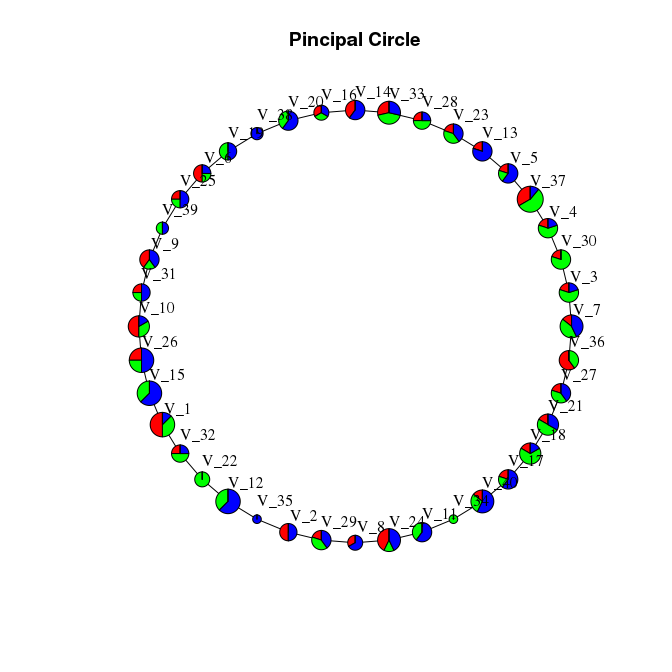
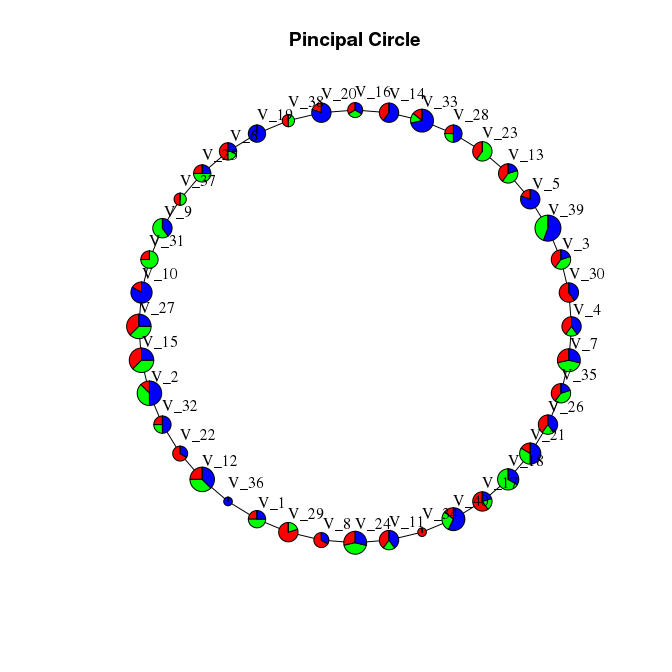
updated circe example

diff --git a/doc/circle.md b/doc/circle.md
@@ -51,16 +51,18 @@ accuracyComplexityPlot(Results[[1]], Main = "Pincipal Circle", Cex.Main = 1, Xli
 
 ![](circle_files/figure-markdown_github/unnamed-chunk-4-1.png)
 
-Data can be plotted in 2D using the R built-in functions
+Data can be plotted in 2D using the R built-in functions. Using the optional argument `Col` it is also possible to assign different colors to the different points. Note that the `GroupsLab` is a mandatory argument that associate each point to a category. It must be a facror of length equal to the number of rows of the Data matrix.
 
 ``` r
-plotData2D(Data = simple_circle, PrintGraph = Results[[1]],
-           GroupsLab = rep(1, nrow(simple_circle)), Xlab = "Dimension 1", Ylab = "Dimension 2")
+plotData2D(Data = simple_circle, PrintGraph = Results[[1]] ,
+           GroupsLab = rep(1, nrow(simple_circle)), Col = rainbow(4)[sample(1:4, nrow(simple_circle), TRUE)],
+           Main = "Pincipal circle",
+           Xlab = "Dimension 1", Ylab = "Dimension 2")
 ```
 
 ![](circle_files/figure-markdown_github/unnamed-chunk-5-1.png)
 
-or plotly, which produces an interactive plot. Using plotly interactivelly requires running the code in RStudio (does it?)
+2D plots can also be done with plotly, which produces an interactive plot. Using plotly interactivelly requires running the code in RStudio (does it?)
 
 ``` r
 plotData2D(Data = simple_circle, PrintGraph = Results[[1]], Plot.ly = TRUE,
@@ -71,11 +73,13 @@ This commands will produce a list of warnings, which can be ignored. Unfortunate
 
 The plotly graph can be exported on the web, for example on [plot.ly](http://plot.ly) using the instruction provided [here](http://plot.ly/r/getting-started/).
 
-It is also possible to have the point ptojections plotted by specifying the correct value for the `PlotProjections` argument. For example it is possible to visualize projections on the nodes by setting `PlotProjections = "onNodes"`
+It is also possible to have the point ptojections plotted by specifying the correct value for the `PlotProjections` argument. For example it is possible to visualize projections on the nodes by setting `PlotProjections = "onNodes"`.
 
 ``` r
 plotData2D(Data = simple_circle, PrintGraph = Results[[1]], PlotProjections = "onNodes",
-           GroupsLab = rep(1, nrow(simple_circle)), Xlab = "Dimension 1", Ylab = "Dimension 2")
+           GroupsLab = rep(1, nrow(simple_circle)), Col = rainbow(4)[sample(1:4, nrow(simple_circle), TRUE)],
+           Main = "Pincipal circle with projections on nodes",
+           Xlab = "Dimension 1", Ylab = "Dimension 2")
 ```
 
 ![](circle_files/figure-markdown_github/unnamed-chunk-7-1.png)
@@ -86,180 +90,15 @@ and to visualize the projections on edges by typing `PlotProjections = "onEdges"
 
 ``` r
 plotData2D(Data = simple_circle, PrintGraph = Results[[1]], PlotProjections = "onEdges",
-           GroupsLab = rep(1, nrow(simple_circle)), Xlab = "Dimension 1", Ylab = "Dimension 2")
+           GroupsLab = rep(1, nrow(simple_circle)), Col = rainbow(4)[sample(1:4, nrow(simple_circle), TRUE)],
+           Main = "Pincipal circle with projections on edges",
+           Xlab = "Dimension 1", Ylab = "Dimension 2")
 ```
 
 ![](circle_files/figure-markdown_github/unnamed-chunk-8-1.png)
 
     ## [1] "Edge Projections will be computed. Consider do that separetedly"
     ## [1] "TaxonList will be computed. Consider doing that separetedly"
-    ## [1] "Updating projection of point 96"
-    ## [1] "Updating projection of point 101"
-    ## [1] "Updating projection of point 142"
-    ## [1] "Updating projection of point 100"
-    ## [1] "Updating projection of point 133"
-    ## [1] "Updating projection of point 192"
-    ## [1] "Updating projection of point 196"
-    ## [1] "Updating projection of point 79"
-    ## [1] "Updating projection of point 113"
-    ## [1] "Updating projection of point 161"
-    ## [1] "Updating projection of point 22"
-    ## [1] "Updating projection of point 23"
-    ## [1] "Updating projection of point 25"
-    ## [1] "Updating projection of point 149"
-    ## [1] "Updating projection of point 188"
-    ## [1] "Updating projection of point 190"
-    ## [1] "Updating projection of point 191"
-    ## [1] "Updating projection of point 43"
-    ## [1] "Updating projection of point 118"
-    ## [1] "Updating projection of point 27"
-    ## [1] "Updating projection of point 70"
-    ## [1] "Updating projection of point 147"
-    ## [1] "Updating projection of point 176"
-    ## [1] "Updating projection of point 180"
-    ## [1] "Updating projection of point 200"
-    ## [1] "Updating projection of point 34"
-    ## [1] "Updating projection of point 36"
-    ## [1] "Updating projection of point 69"
-    ## [1] "Updating projection of point 73"
-    ## [1] "Updating projection of point 114"
-    ## [1] "Updating projection of point 140"
-    ## [1] "Updating projection of point 153"
-    ## [1] "Updating projection of point 42"
-    ## [1] "Updating projection of point 57"
-    ## [1] "Updating projection of point 154"
-    ## [1] "Updating projection of point 159"
-    ## [1] "Updating projection of point 48"
-    ## [1] "Updating projection of point 105"
-    ## [1] "Updating projection of point 139"
-    ## [1] "Updating projection of point 146"
-    ## [1] "Updating projection of point 187"
-    ## [1] "Updating projection of point 72"
-    ## [1] "Updating projection of point 88"
-    ## [1] "Updating projection of point 98"
-    ## [1] "Updating projection of point 106"
-    ## [1] "Updating projection of point 169"
-    ## [1] "Updating projection of point 175"
-    ## [1] "Updating projection of point 199"
-    ## [1] "Updating projection of point 60"
-    ## [1] "Updating projection of point 103"
-    ## [1] "Updating projection of point 129"
-    ## [1] "Updating projection of point 173"
-    ## [1] "Updating projection of point 17"
-    ## [1] "Updating projection of point 104"
-    ## [1] "Updating projection of point 130"
-    ## [1] "Updating projection of point 143"
-    ## [1] "Updating projection of point 193"
-    ## [1] "Updating projection of point 16"
-    ## [1] "Updating projection of point 85"
-    ## [1] "Updating projection of point 157"
-    ## [1] "Updating projection of point 78"
-    ## [1] "Updating projection of point 81"
-    ## [1] "Updating projection of point 97"
-    ## [1] "Updating projection of point 151"
-    ## [1] "Updating projection of point 178"
-    ## [1] "Updating projection of point 3"
-    ## [1] "Updating projection of point 29"
-    ## [1] "Updating projection of point 30"
-    ## [1] "Updating projection of point 83"
-    ## [1] "Updating projection of point 128"
-    ## [1] "Updating projection of point 177"
-    ## [1] "Updating projection of point 182"
-    ## [1] "Updating projection of point 185"
-    ## [1] "Updating projection of point 13"
-    ## [1] "Updating projection of point 87"
-    ## [1] "Updating projection of point 120"
-    ## [1] "Updating projection of point 179"
-    ## [1] "Updating projection of point 86"
-    ## [1] "Updating projection of point 165"
-    ## [1] "Updating projection of point 50"
-    ## [1] "Updating projection of point 58"
-    ## [1] "Updating projection of point 108"
-    ## [1] "Updating projection of point 2"
-    ## [1] "Updating projection of point 18"
-    ## [1] "Updating projection of point 21"
-    ## [1] "Updating projection of point 170"
-    ## [1] "Updating projection of point 56"
-    ## [1] "Updating projection of point 127"
-    ## [1] "Updating projection of point 136"
-    ## [1] "Updating projection of point 164"
-    ## [1] "Updating projection of point 11"
-    ## [1] "Updating projection of point 46"
-    ## [1] "Updating projection of point 62"
-    ## [1] "Updating projection of point 63"
-    ## [1] "Updating projection of point 134"
-    ## [1] "Updating projection of point 75"
-    ## [1] "Updating projection of point 77"
-    ## [1] "Updating projection of point 92"
-    ## [1] "Updating projection of point 94"
-    ## [1] "Updating projection of point 145"
-    ## [1] "Updating projection of point 189"
-    ## [1] "Updating projection of point 33"
-    ## [1] "Updating projection of point 8"
-    ## [1] "Updating projection of point 44"
-    ## [1] "Updating projection of point 111"
-    ## [1] "Updating projection of point 144"
-    ## [1] "Updating projection of point 74"
-    ## [1] "Updating projection of point 84"
-    ## [1] "Updating projection of point 112"
-    ## [1] "Updating projection of point 184"
-    ## [1] "Updating projection of point 7"
-    ## [1] "Updating projection of point 12"
-    ## [1] "Updating projection of point 117"
-    ## [1] "Updating projection of point 121"
-    ## [1] "Updating projection of point 28"
-    ## [1] "Updating projection of point 47"
-    ## [1] "Updating projection of point 68"
-    ## [1] "Updating projection of point 131"
-    ## [1] "Updating projection of point 174"
-    ## [1] "Updating projection of point 183"
-    ## [1] "Updating projection of point 9"
-    ## [1] "Updating projection of point 93"
-    ## [1] "Updating projection of point 102"
-    ## [1] "Updating projection of point 150"
-    ## [1] "Updating projection of point 14"
-    ## [1] "Updating projection of point 40"
-    ## [1] "Updating projection of point 53"
-    ## [1] "Updating projection of point 55"
-    ## [1] "Updating projection of point 59"
-    ## [1] "Updating projection of point 76"
-    ## [1] "Updating projection of point 115"
-    ## [1] "Updating projection of point 137"
-    ## [1] "Updating projection of point 163"
-    ## [1] "Updating projection of point 37"
-    ## [1] "Updating projection of point 38"
-    ## [1] "Updating projection of point 54"
-    ## [1] "Updating projection of point 148"
-    ## [1] "Updating projection of point 186"
-    ## [1] "Updating projection of point 41"
-    ## [1] "Updating projection of point 124"
-    ## [1] "Updating projection of point 168"
-    ## [1] "Updating projection of point 172"
-    ## [1] "Updating projection of point 198"
-    ## [1] "Updating projection of point 67"
-    ## [1] "Updating projection of point 132"
-    ## [1] "Updating projection of point 26"
-    ## [1] "Updating projection of point 51"
-    ## [1] "Updating projection of point 80"
-    ## [1] "Updating projection of point 90"
-    ## [1] "Updating projection of point 19"
-    ## [1] "Updating projection of point 65"
-    ## [1] "Updating projection of point 116"
-    ## [1] "Updating projection of point 141"
-    ## [1] "Updating projection of point 138"
-    ## [1] "Updating projection of point 20"
-    ## [1] "Updating projection of point 35"
-    ## [1] "Updating projection of point 49"
-    ## [1] "Updating projection of point 125"
-    ## [1] "Updating projection of point 45"
-    ## [1] "Updating projection of point 52"
-    ## [1] "Updating projection of point 152"
-    ## [1] "Updating projection of point 158"
-    ## [1] "Updating projection of point 194"
-    ## [1] "Updating projection of point 31"
-    ## [1] "Updating projection of point 32"
-    ## [1] "Updating projection of point 109"
-    ## [1] "Updating projection of point 110"
 
 Data can also be plotted in 3D using the functionalities provided by the `rgl` package
 
@@ -290,7 +129,7 @@ plotData3D(Data = simple_circle, PrintGraph = Results[[1]], Plot.ly = TRUE,
 
 Similarly to 2D, it is possible to export the plot to a web resource.
 
-To see how different populations distribute among the nodes of the graph by providing a population identifier to each point in the original data (The `Categories` vector). In the following example, three populations are randomly assigned.
+To see how different populations distribute among the nodes of the graph by providing a population identifier to each point in the original data (The `Categories` factor). In the following example, three populations are randomly assigned.
 
 ``` r
 Net <- ConstructGraph(Results = Results[[1]], DirectionMat = NULL, Thr = 0.05)
